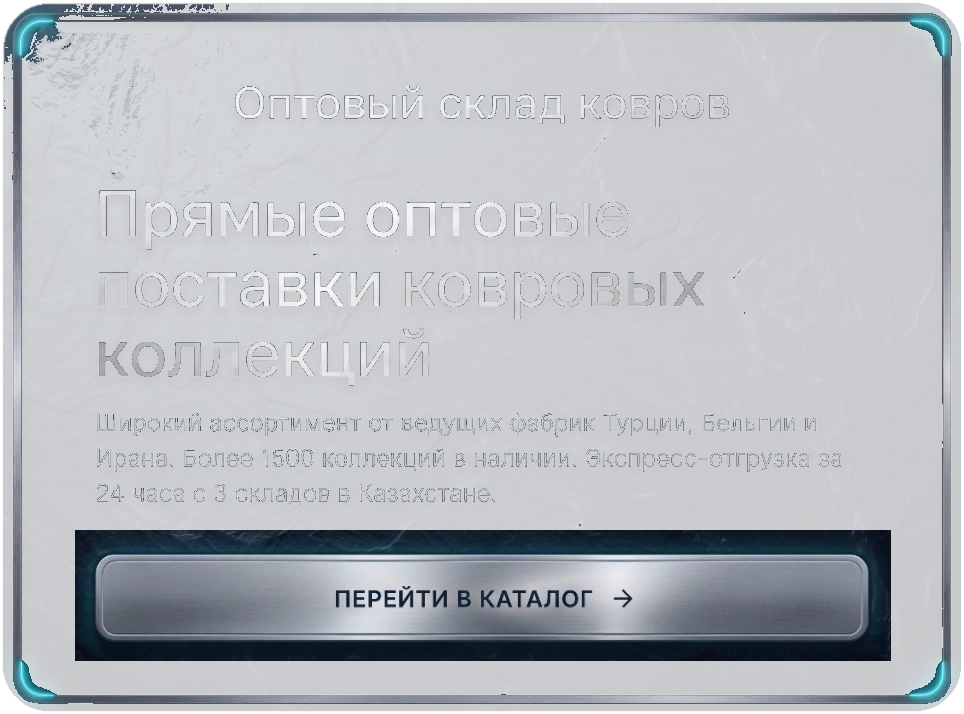
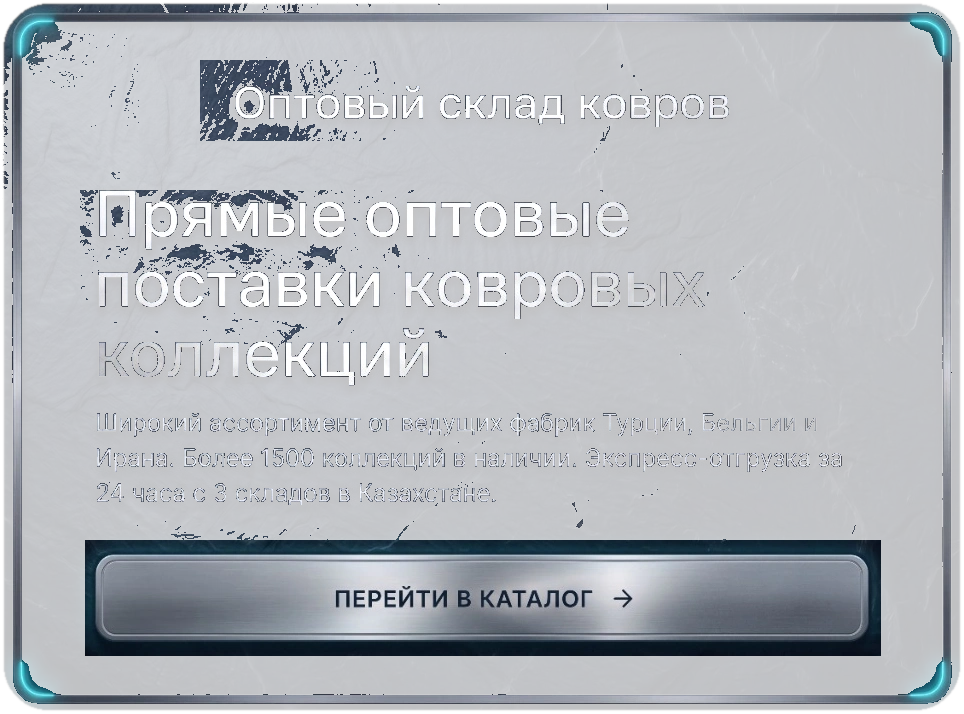
feat(ui): refine Variant 3 Air Tint HUD with crisp typography and backdrop-blur

diff --git a/src/components/home/HeroBannerMedia.tsx b/src/components/home/HeroBannerMedia.tsx
@@ -164,7 +164,7 @@ export default function HeroBannerMedia({ onNavigate, isReady = true }: HeroBann
           <div className="relative container-w py-6 sm:py-10">
             {/* ── Techno-Luxury End-State Call To Action Card (Air Tint HUD) ── */}
             <div 
-              className={`max-w-[480px] lg:max-w-[540px] rounded-[32px] backdrop-blur-[2px] shadow-[0_20px_50px_rgba(0,0,0,0.6),0_0_35px_rgba(0,251,255,0.2)] transition-all duration-700 ease-[cubic-bezier(0.16,1,0.3,1)] relative select-none ${
+              className={`max-w-[480px] lg:max-w-[540px] rounded-[32px] bg-slate-950/25 backdrop-blur-md shadow-[0_20px_50px_rgba(0,0,0,0.6),0_0_35px_rgba(0,251,255,0.2)] transition-all duration-700 ease-[cubic-bezier(0.16,1,0.3,1)] relative select-none ${
                 isEnded 
                   ? 'opacity-100 translate-y-0 scale-100 pointer-events-auto' 
                   : 'opacity-0 translate-y-16 scale-[0.92] pointer-events-none'
